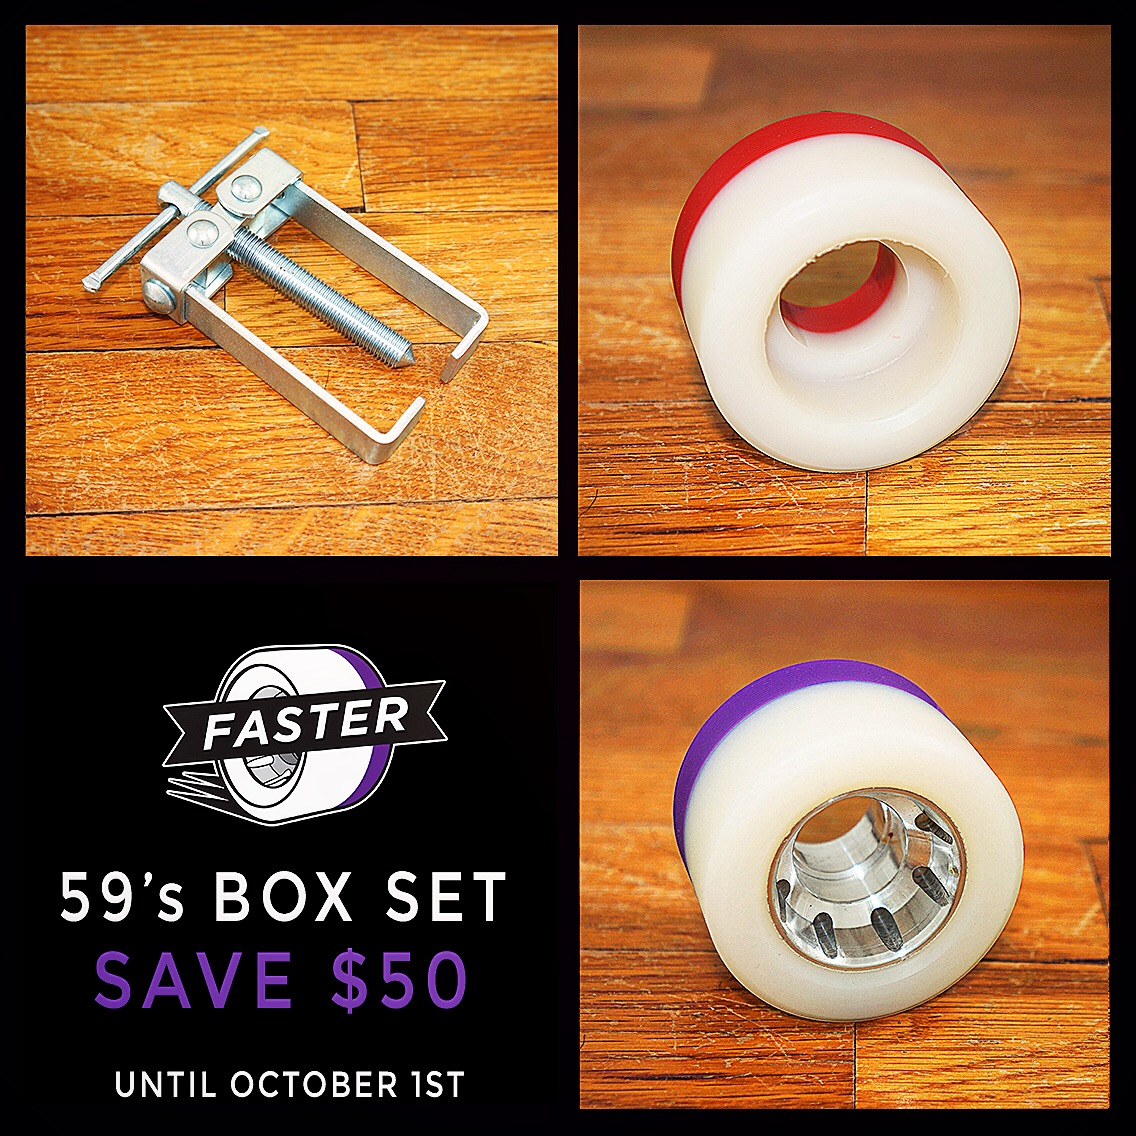
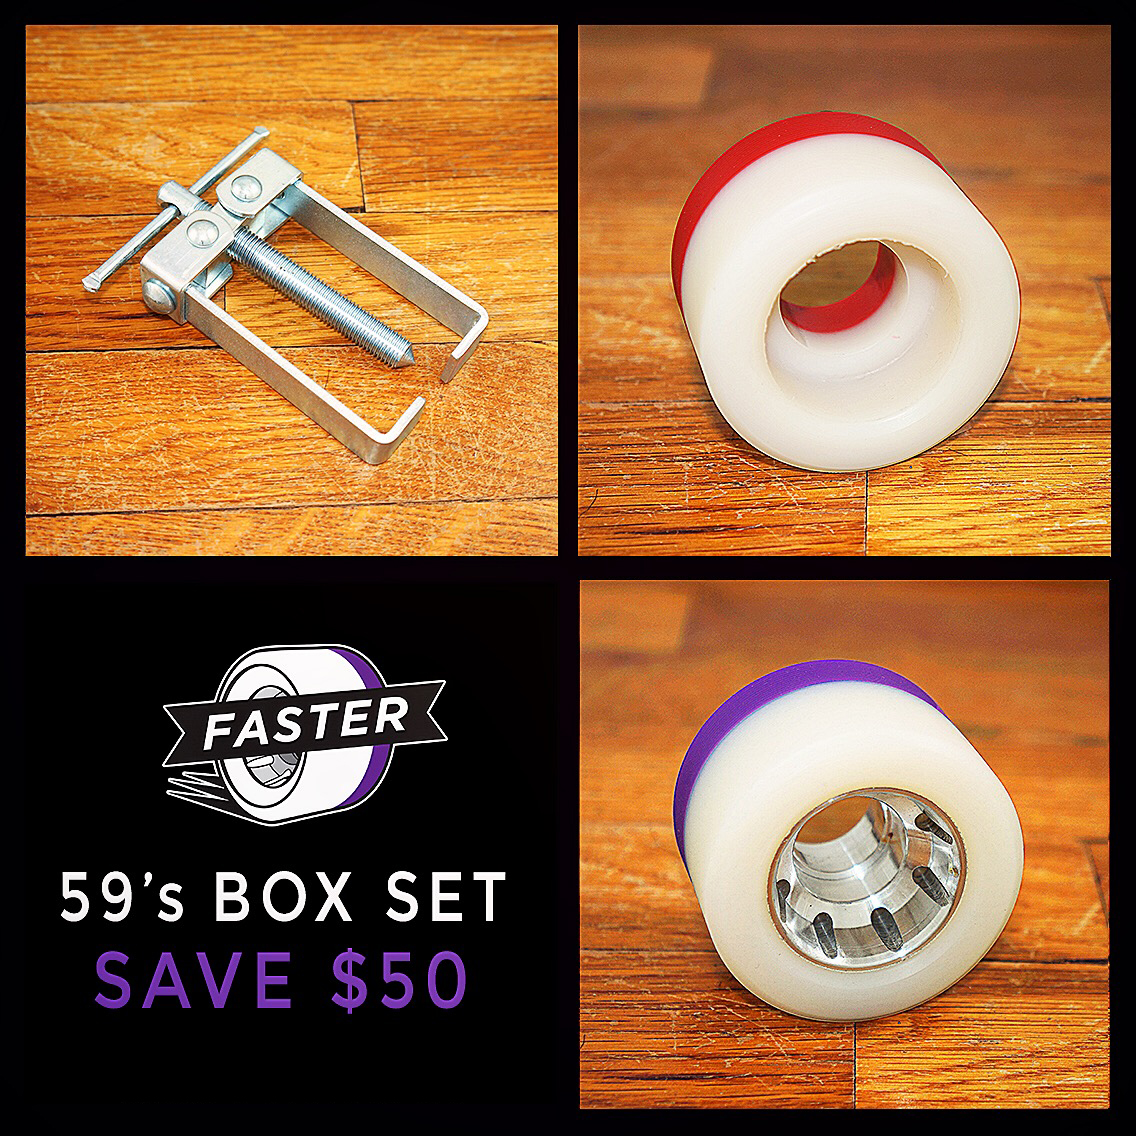
holiday sale

Changed region(s): [[0.2157, 0.9243, 0.4005, 0.9859], [0.0924, 0.9243, 0.1849, 0.9859], [0.5238, 0.8935, 0.5546, 0.9243]]

diff --git a/sale.php b/sale.php
@@ -1,0 +1,132 @@
+<?php 
+$pagetitle = "HOLIDAY PROMOTION"; 
+include('inc/header.php'); 
+$section = "special";
+?>
+
+<div class="panel product full-height" style="background-color: #eeeeee;">
+ <p class="detail" style="color:#808285;" >HOLIDAY <span class="name" style="color:#ed1c24;">PROMOTION</span> </p>
+
+         <div class="large-6 small-12 columns">
+          <ul class="panel frame pricing-table left-side john">
+             <center><img src="images/hero.jpg" alt="Multi Component" style= "max-height:600px"></a></center>
+            <li class="price" style="font-size:1.1em; text-aligh:center;background-color: #e3e3e3;font-size: 1.4em;padding-bottom: 0px;padding-top: 3%;">FLYWHELS</li>
+            </ul>
+          </div>
+              <div class="large-6 columns">
+                <ul class="pricing-table right-side">
+                  <li class="title">
+                      <div id="product-description" class="rte" itemprop="description">
+                  <h3>SAVE $20</h3>
+                      </div>
+                  <li class="description">
+                  FlyWheels offer an innovative 'pitch perfect' hub engineered for optimal strength and turning radius. 
+                  The FlyWheel's hub accentuates Faster's trademark dual-durometer urethane to hold the tightest curve - or easily release for smooth slide. 
+                  <br> <br>
+                  Set of 8 Wheels <br><br>
+                        <form action="https://www.paypal.com/cgi-bin/webscr" method="post" target="_top">
+                  <input type="hidden" name="cmd" value="_s-xclick">
+                  <input type="hidden" name="hosted_button_id" value="5D9M92UW2YPZG">
+                  <input type="hidden" name="on0" value="SELECT WHEELS">SELECT WHEELS</td></tr><tr><td><select name="os0">
+                    <option value="Red|White 92|96a 59mm">Red|White 92|96a 59mm $105.00 USD</option>
+                    <option value="Red|White 92|96a 62mmple | White 92|96a">Red|White 92|96a 62mm 105.00 USD</option>
+                    <option value="Purple|White 92|96a 59mm">Purple|White 90|94a 59mm $105.00 USD</option>
+                    <option value="Purple|White 92|96a 62mm 4">Purple|White 90|94a 62mm $105.00 USD</option>
+                  </select> 
+                  <input type="hidden" name="currency_code" value="USD">
+                  <input type="image" src="https://www.paypalobjects.com/en_US/i/btn/btn_buynowCC_LG.gif" border="0" name="submit" alt="PayPal - The safer, easier way to pay online!">
+                  <img alt="" border="0" src="https://www.paypalobjects.com/en_US/i/scr/pixel.gif" width="1" height="1">
+                  </form>
+                  </li>
+                </ul>           
+            </div> 
+
+
+
+            <div class="large-6 small-12 columns">
+          <ul class="panel frame pricing-table left-side john">
+             <center><img src="images/59_banner.jpg" alt="Multi Component" style= "max-height:600px"></a></center>
+            <li class="price" style="font-size:1.1em; text-aligh:center;background-color: #e3e3e3;font-size: 1.4em;padding-bottom: 0px;padding-top: 3%;">MULTI-COMPONENT</li>
+            </ul>
+          </div>
+              <div class="large-6 columns">
+                <ul class="pricing-table right-side">
+                  <li class="title">
+                      <div id="product-description" class="rte" itemprop="description">
+                  <h3>SAVE $30</h3>
+                      </div>
+                  <li class="description">
+                    High performing urethane and a larger contact patch will make you faster and more controlled in your skating, 
+                    as there is more surface area making contact with the floor. <br> <br>
+                    Our CNC (Computer Numerically Controlled Manufacturing) Hubs are sculpted from a single block of aluminium: 
+                    making the wheel a lot stronger. <br> <br>
+           
+                  Set of 8 Wheels <br>
+                  <br>
+                        <form target="paypal" action="https://www.paypal.com/cgi-bin/webscr" method="post">
+                      <input type="hidden" name="cmd" value="_s-xclick">
+                      <input type="hidden" name="hosted_button_id" value="SVC2FLZ5QR2DL">
+                        <input type="hidden" name="on0" value="SELECT WHEELS">SELECT WHEELS</td></tr><tr><td><select name="os0">
+                        <option value="Red|White 92|96a 59mm">Red|White 92|96a 59mm $125.00 USD</option>
+                        <option value="Red|White 92|96a Full Width">Red|White 92|96a Full Width $125.00 USD</option>
+                        <option value="Purple|White 90|94a 59mm">Purple|White 90|94a 59mm $125.00 USD</option>
+                        <option value="Purple|White 90|94a 62mm Skinny">Purple|White 90|94a 62mm Skinny $125.00 USD</option>
+                        <option value="Green|White 93|96a 59mm">Green|White 93|96a 59mm $125.00 USD</option>
+                        <option value="Demilune Purple|White 90|94a 62mm Skinny">Demilune Purple|White 90|94a 62mm Skinny $125.00 USD</option>
+                        <option value="Natural 97a 62mm Skinny">Natural 97a 62mm Skinny $125.00 USD</option>
+                      </select> 
+                      <input type="hidden" name="currency_code" value="USD">
+                      <input type="image" src="https://www.paypalobjects.com/en_US/i/btn/btn_cart_LG.gif" border="0" name="submit" alt="PayPal - The safer, easier way to pay online!">
+                      <img alt="" border="0" src="https://www.paypalobjects.com/en_US/i/scr/pixel.gif" width="1" height="1">
+                      </form>
+
+                  </li>
+                </ul>           
+            </div> 
+
+    <div class="large-6 small-12 columns">
+          <ul class="panel frame pricing-table left-side john">
+             <center><img src="images/boxs.jpg" alt="Multi Component" style= "max-height:600px"></a></center>
+            <li class="price" style="font-size:1.1em; text-aligh:center;background-color: #e3e3e3;font-size: 1.4em;padding-bottom: 0px;padding-top: 3%;">59's BOX SET</li>
+            </ul>
+          </div>
+              <div class="large-6 columns">
+                <ul class="pricing-table right-side">
+                  <li class="title">
+                      <div id="product-description" class="rte" itemprop="description">
+                  <h3>SAVE $50</h3>
+                      </div>
+                  <li class="description">Demilunes are perfect for a secure feel on slicker floors, without giving up the speed factor, and without the guesswork of 'pusher wheels'. The 90A gives you the grip when you need it, while the 94A does away with unnecessary fatigue from overly sticky wheels. 90 | 94a
+                  <br><br>
+                  Demirojo allows speed and agility to play the same game. The 92A allows you to control your edges, and the 96A provides sweet break and slide making it the perfect wheel for high speed footwork across a variety of surfaces. 92 | 96a
+                  <br><br>
+                  Set of 8 Wheels <br>
+                  Contact Patch: 34.5mm <br>
+                  Total Width: 38.5mm <br>
+                  Profile: 59 Bevel <br>
+                  <br>
+                  <br>
+                  <form target="paypal" action="https://www.paypal.com/cgi-bin/webscr" method="post">
+                  <input type="hidden" name="cmd" value="_s-xclick">
+                  <input type="hidden" name="hosted_button_id" value="T5A6W4XJEZZ36">
+                  <input type="hidden" name="on0" value="Combo">Combo Options</td></tr><tr><td><select name="os0">
+                    <option value="Complete Demirojo with Demilune Tires">Complete Demirojo with Demilune Tires $205.00 USD</option>
+                    <option value="Complete Demilune with Demirojo Tires">Complete Demilune with Demirojo Tires $205.00 USD</option>
+                  </select> 
+                  <input type="hidden" name="currency_code" value="USD">
+                  <input type="image" src="https://www.paypalobjects.com/en_US/i/btn/btn_cart_LG.gif" border="0" name="submit" alt="PayPal - The safer, easier way to pay online!">
+                  <img alt="" border="0" src="https://www.paypalobjects.com/en_US/i/scr/pixel.gif" width="1" height="1">
+                  </form>
+
+                  </li>
+                </ul>           
+            </div>      
+     
+      
+
+  </div>
+
+  <?php
+include('inc/footer.php'); ?>
+
+

diff --git a/inc/singleproducts.php b/inc/singleproducts.php
@@ -41,16 +41,29 @@ $singleproducts[101] = array(
         Total Width: 38.5mm<br>
         Durometer: 92a | 96a",
 
-        "paypal" => '<form target="paypal" <form action="https://www.paypal.com/cgi-bin/webscr" method="post" target="_top">
-        <input type="hidden" name="cmd" value="_s-xclick">
-        <input type="hidden" name="hosted_button_id" value="LWHW5K5GCG78N">
-        <input type="hidden" name="on0" value="Height/Profile">Height/Profile</td></tr><tr><td><select name="os0">
-            <option value="59mm Bevel">59mm Bevel $125.00 USD</option>
-        </select> 
-        <input type="hidden" name="currency_code" value="USD">
-        <input type="image" src="https://www.paypalobjects.com/en_US/i/btn/btn_buynowCC_LG.gif" border="0" name="submit" alt="PayPal - The safer, easier way to pay online!">
-        <img alt="" border="0" src="https://www.paypalobjects.com/en_US/i/scr/pixel.gif" width="1" height="1">
-        </form>'
+        // "paypal" => '<form target="paypal" <form action="https://www.paypal.com/cgi-bin/webscr" method="post" target="_top">
+        // <input type="hidden" name="cmd" value="_s-xclick">
+        // <input type="hidden" name="hosted_button_id" value="LWHW5K5GCG78N">
+        // <input type="hidden" name="on0" value="Height/Profile">Height/Profile</td></tr><tr><td><select name="os0">
+        //     <option value="59mm Bevel">59mm Bevel $125.00 USD</option>
+        // </select> 
+        // <input type="hidden" name="currency_code" value="USD">
+        // <input type="image" src="https://www.paypalobjects.com/en_US/i/btn/btn_buynowCC_LG.gif" border="0" name="submit" alt="PayPal - The safer, easier way to pay online!">
+        // <img alt="" border="0" src="https://www.paypalobjects.com/en_US/i/scr/pixel.gif" width="1" height="1">
+        // </form>'
+
+"paypal" => 'form action="https://www.paypal.com/cgi-bin/webscr" method="post" target="_top">
+<input type="hidden" name="cmd" value="_s-xclick">
+<input type="hidden" name="hosted_button_id" value="LWHW5K5GCG78N">
+<input type="hidden" name="on0" value="Height/Profile">Height/Profile</td></tr><tr><td><select name="os0">
+  <option value="59mm Bevel">59mm Bevel $125.00 USD</option>
+</select> 
+<input type="hidden" name="currency_code" value="USD">
+<input type="image" src="https://www.paypalobjects.com/en_US/i/btn/btn_buynowCC_LG.gif" border="0" name="submit" alt="PayPal - The safer, easier way to pay online!">
+<img alt="" border="0" src="https://www.paypalobjects.com/en_US/i/scr/pixel.gif" width="1" height="1">
+</form>
+
+
         );
 
 $singleproducts[102] = array(

diff --git a/inc/dualproducts.php b/inc/dualproducts.php
@@ -253,6 +253,8 @@ $dualproducts[125] = array(
 
 ?>
 
+
+
 <!-- c-clip 
     <form target="paypal" action="https://www.paypal.com/cgi-bin/webscr" method="post" style="margin-bottom: 0px;">
     <input type="hidden" name="cmd" value="_s-xclick">
